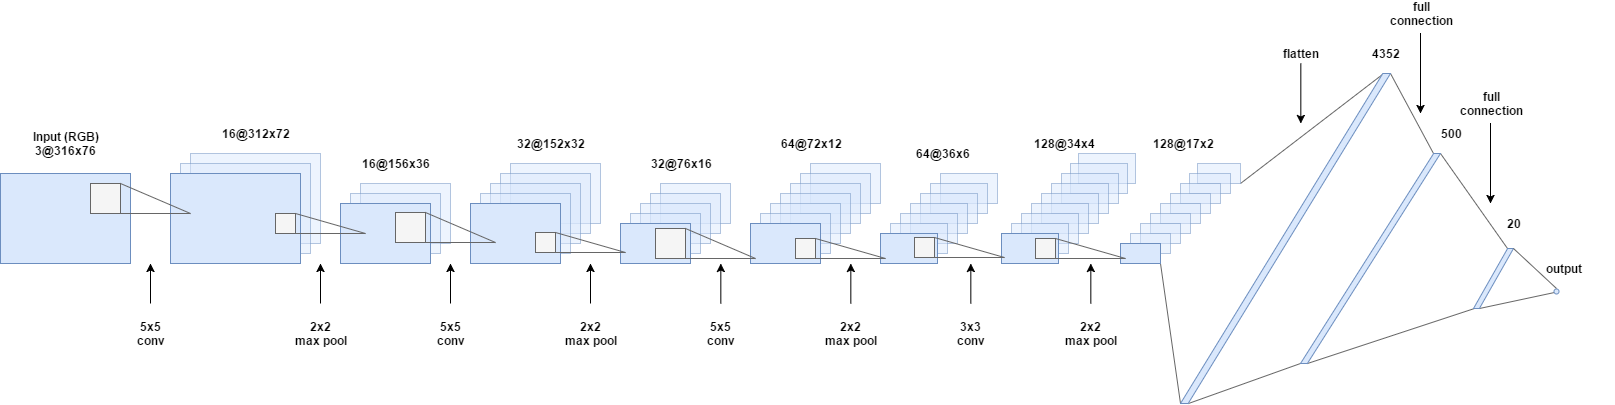
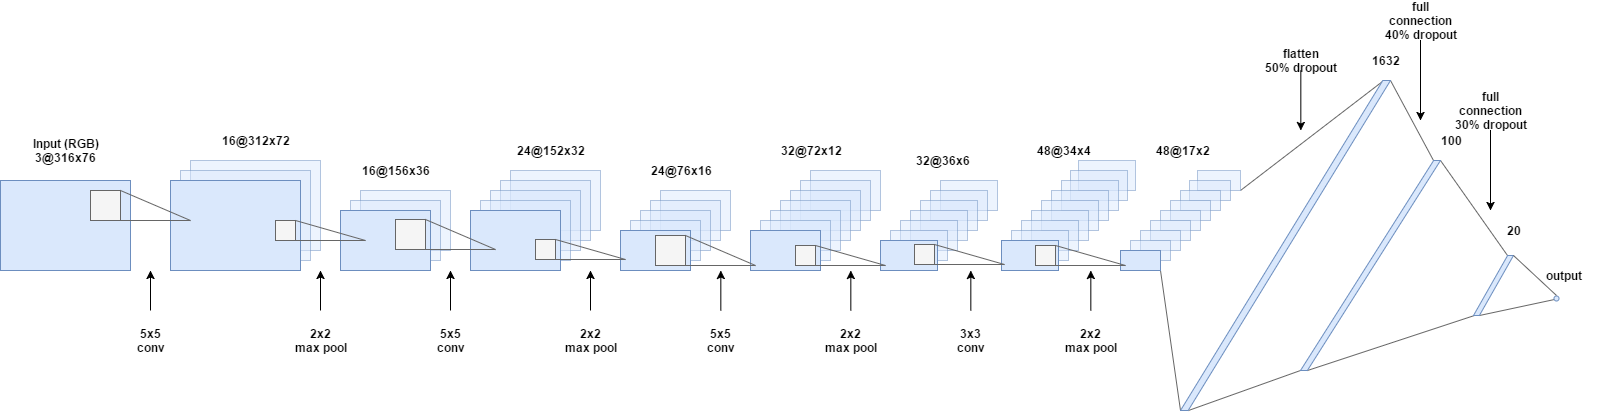
updated model.py updated writeup

diff --git a/model.py b/model.py
@@ -15,14 +15,6 @@ from sklearn.model_selection import train_test_split
 
 from multiprocessing import Pool, freeze_support
 
-# The list recording directories
-#data_paths = [ r"D:\recordings\data\data", r"D:\recordings\r1", r"D:\recordings\r2", r"D:\recordings\r3" ]
-#data_paths = [ r"D:\recordings\data\data", r"D:\recordings\r2", r"D:\recordings\r3" ]
-#data_paths = [  r"D:\recordings\r1", r"D:\recordings\r4", r"D:\recordings\r5", r"D:\recordings\r6" ]
-#data_paths = [ r"D:\recordings\data\data", r"D:\recordings\r2", r"D:\recordings\r3" ]
-#data_paths = [  r"D:\recordings\r5", r"D:\recordings\r6" ]
-data_paths = [   r"D:\recordings\r4", r"D:\recordings\r5", r"D:\recordings\r6" ]
-
 # ========================================================================================================
 #                                     raw data loading section
 # ========================================================================================================
@@ -191,19 +183,22 @@ def apply_random_shadow_single(X):
 # ========================================================================================================
 
 def preprocess_sample(sample):
+    # Split the input variable (needed because of multiprocessing module)
     X_in = sample[0]
     y = sample[1]
     augment = sample[2]
 
-    #print(X_in.shape)
+    # Load and crop the image
     X = load_single(X_in)[50:130, :, :]
     
+    # Apply data augmentation
     if augment:
         X = apply_random_shadow_single(X)
         X = apply_random_brightness_single(X)
         X, y = apply_random_flip_single(X, y)
         X, y = apply_random_shifting_single(X, y)
     
+    # Apply local adaptive histogram equalization
     X = equalize_adapthist(X)
     
     return X, y
@@ -287,9 +282,34 @@ def get_nvidia_model():
     
     return model
 
+def train(model, data_paths, epochs, name):
+    # Parse the csv files
+    X_data, y_data = parse_recordings(data_paths)
+    X_eq, y_eq = equalize_angles(X_data, y_data)
+
+    # Train / Validation split
+    X_train, X_val, y_train, y_val = train_test_split(X_eq, y_eq, test_size=.2)
+
+    # Train the model
+    model.fit_generator(generate_samples(X_train, y_train, True), 
+                    steps_per_epoch=len(X_train)/128,
+                    epochs=epochs,
+                    validation_data=generate_samples(X_val, y_val, False),
+                    validation_steps = len(X_val)/128,
+                    callbacks=[ModelCheckpoint(r'weights\\' + name + r'-{epoch:02d}.h5', monitor='val_loss', verbose=0, save_best_only=False, save_weights_only=False, mode='auto', period=1)])
+
+
 # ========================================================================================================
 #                                     Run the code!
 # ========================================================================================================
+
+# The list recording directories
+
+# Only data on track 2
+data_paths1 = [   r"D:\recordings\r4", r"D:\recordings\r5", r"D:\recordings\r6" ]
+
+# Additional data on track 1
+data_paths2 = [   r"D:\recordings\r4", r"D:\recordings\r5", r"D:\recordings\r6" ]
 
 if __name__ == '__main__':
     from keras.models import Sequential, load_model
@@ -307,21 +327,11 @@ if __name__ == '__main__':
     #model = load_model('model.h5', custom_objects={"ktf": ktf})
     model.summary()
 
-    # Parse the csv files
-    X_data, y_data = parse_recordings(data_paths)
-    X_eq, y_eq = equalize_angles(X_data, y_data)
+    # Train 200 epochs only using data of track 2
+    train(model, data_paths1, 100, "model-pre")
 
-    # Train / Validation split
-    X_train, X_val, y_train, y_val = train_test_split(X_eq, y_eq, test_size=.2)
-
-    # Train the model
-
-    model.fit_generator(generate_samples(X_train, y_train, True), 
-                    steps_per_epoch=len(X_train)/128,
-                    epochs=5,
-                    validation_data=generate_samples(X_val, y_val, False),
-                    validation_steps = len(X_val)/128,
-                    callbacks=[ModelCheckpoint(r'weights\model-{epoch:02d}.h5', monitor='val_loss', verbose=0, save_best_only=False, save_weights_only=False, mode='auto', period=1)])
+    # Train 5 epochs with additional data from track 1 (driven in reverse direction)
+    train(model, data_paths2, 5, "model")
 
     # Save the trained model
     model.save('model.h5')

diff --git a/drive.py b/drive.py
@@ -47,7 +47,7 @@ class SimplePIController:
 
 
 controller = SimplePIController(0.1, 0.002)
-set_speed = 9
+set_speed = 15
 controller.set_desired(set_speed)
 
 

diff --git a/writeup_report.md b/writeup_report.md
@@ -57,9 +57,9 @@ The stages in which the CNN solution is built can be broken down into the usual 
 
 I started with the well-known nvidia architecture and further evolved and adapted it to the problem at hand. The final model consists of 6 layers, three 5x5 convolutional layers, one 3x3 convolutional layer, and two fully connected layers - see the next section for further details.
 
-For training, I first used only the training data provided by udacity making up 8'036 samples. This worked fine for track 1 but I couldn't get the model to generalized well enough to manage all of track 2 with that data. Thus, I recorded additional 6'000 samples on track 2. Half of it in standard direction, and the other half in opposite direction. Having data driving the track in both directions should allow the model to generalize better. 
+For training, I first only used the training data provided by udacity making up 8'036 samples. This worked fine for track 1 but I couldn't get the model to generalized well enough to manage all of track 2 with that data. Thus, I recorded additional 15'000 samples on track 2. Half of it in standard direction, and the other half in opposite direction. Having data driving the track in both directions should allow the model to generalize better. I first used only this data for training which worked well for track 2 but the car didn't manage to drive all of track 1. Therefore, I added 11'000 samples of track 1 but only trained a few epochs with it - more on that later.
 
-This model has about 2 million parameters - slightly more than the 1.5 million parameters of the nvidia model which was built for a much more complex task (driving in real world scenarios).
+The model has about 200k parameters - about 20% less than the nvidia model which arguably was built for a much more complex task (driving in real world scenarios).
 To combat overfitting, I used dropout on the fully connected layers and augmented the training data by applying random flipping, random brightness, random shifting, and random shadows.
 
 While training the network, I monitored the mean squared error on the augmented training set and the validation set. When the mse dropped below 0.03, the model was usually capable to drive both tracks without crashing.
@@ -73,24 +73,25 @@ The final model architecture is
 | Input      | 316x76x3 RGB image                                    | 0         |
 | Conv2D 5x5 | 1x1 stride, valid padding, output (312, 72, 16), relu | 1'216     |
 | MaxPool2D  | 2x2 stride, output (156, 36, 16)                      | 0         |
-| Conv2D 5x5 | 1x1 stride, valid padding, output (152, 32, 32), relu | 12'832    |
-| MaxPool2D  | 2x2 stride, output (76, 16, 32)                       | 0         | 
-| Conv2D 5x5 | 1x1 stride, valid padding, output (72, 12, 64), relu  | 51'264    |
-| MaxPool2D  | 2x2 stride, output (36, 6, 64)                        | 0         | 
-| Conv2D 3x3 | 1x1 stride, valid padding, output (34, 4, 128), relu  | 73'856    |
-| MaxPool2D  | 2x2 stride, output (17, 2, 128)                       | 0         | 
-| Flatten    | output (27648)                                        | 0         | 
-| Dense      | output (500), dropout = 50 %, relu                    | 2'176'500 |
-| Dense      | output (20), dropout = 25 %, relu                     | 10'020    |
+| Conv2D 5x5 | 1x1 stride, valid padding, output (152, 32, 24), relu | 9'624     |
+| MaxPool2D  | 2x2 stride, output (76, 16, 24)                       | 0         | 
+| Conv2D 5x5 | 1x1 stride, valid padding, output (72, 12, 32), relu  | 19'232    |
+| MaxPool2D  | 2x2 stride, output (36, 6, 32)                        | 0         | 
+| Conv2D 3x3 | 1x1 stride, valid padding, output (34, 4, 48), relu   | 13'872    |
+| MaxPool2D  | 2x2 stride, output (17, 2, 48)                        | 0         | 
+| Flatten    | output (1632), dropout = 50 %,                        | 0         | 
+| Dense      | output (100), dropout = 40 %, relu                    | 163'300   |
+| Dense      | output (20), dropout = 30 %, relu                     | 2'020     |
 | Dense      | output (1)                                            | 21        |
 
 Instead of resizing the images beforehand, the convolutional+maxpool layers gradually reduce the image size picking up features on the way. Relus introduce nonlinearity into the model and to avoid overfitting of the fully connected layers dropout is used -- see the `get_model()` function for all the details.
 
-This model has about 2 million parameters - slightly more than the 1.5 million parameters of the nvidia model.
+This model has 209'000 parameters - about 20% less than the 250k parameters of the nvidia model while making use of much larger images.
 
-Before the 320x160 images from the simulator are fed into the network, they are cropped to 316x76 pixels. Initially the same cropping was used for training and testing in the simulator, cutting away the part of the vehicle visible in the pictures as well as most of the sky. However, I noticed that the steering got quite unstable at times. To make it easier for the model to predict a stable steering wheel, a different vertical slicing was chosen when testing to give the model a 'lookahead' advantage. After cropping, local histogram optimization is applied to compensate dark low contrast situations which are often encountered on track 2. These two steps make up all the preprocessing, everything else has been learned by the network.
+Before the 320x160 images from the simulator are fed into the network, they are cropped to 316x76 pixels. Initially, the same cropping was used for training and testing in the simulator, cutting away the part of the vehicle visible in the pictures as well as most of the sky. However, I noticed that the steering got quite unstable at times. To make it easier for the model to predict a stable steering wheel, a different vertical slicing was chosen when testing to give the model a 'lookahead' advantage. After cropping, local histogram optimization is applied to compensate dark low contrast situations which are often encountered on track 2. These two steps make up all the preprocessing, everything else has been learned by the network.
 
-The model used an adam optimizer, so the learning rate was not tuned manually.
+The model used an adam optimizer, so the learning rate 1e-4 was not tuned manually.
+To speed up learning, L2-regularization with lambda=1e-4 is used on the fully connected layers.
 
 Here is a visualization of the architecture
 
@@ -98,21 +99,23 @@ Here is a visualization of the architecture
 
 #### 3. Creation of the Training Set & Training Process
 
-To be honest, I tried to provide only samples of center lane driving but had trouble to stay on course at time thus generating (unintentionally) several examples of recovering from deviations.
-
-First I chose to use the training data provided by udacity making up 8'036 samples. In addition I recorded 15'000 samples on track 1. Half of it in standard direction, and half of it in opposite direction. Having data driving the track in both directions should allow the model to generalize better. Most of the images are center lane driving but I intentionally added a couple of passages where I did not steer and then recovered using a steep steering angle.
-
-I started out with the ??? training samples provided by udacity.
+In my very first attempts, I only used the training data provided by udacity making up 8'036 samples. Here are three examples
 
 ![3 examples from the udacity dataset](images/examples.PNG)
 
-I couldn't manage to handle track 2 with those samples alone, thus I also recorded a few laps on the second track. 50% in default direction and 50% in the opposite direction - more on that in a minute.
+This worked fine for track 1 but I couldn't get the model to generalized well enough to manage all of track 2 with that data. Therefore, I recorded 15'316 samples on track 2. Half of it in standard direction, and the other half in opposite direction. Having data driving the track in both directions should allow the model to generalize better. Track 2 is made up of a divided lane and I drove the entire track on the right side steering with the mouse in hope to produce smoother steering data.
 
-The unfiltered data set is very much biased towards steering straight.
+![3 examples from the dataset on track 2](images/examples2.PNG)
+
+I trained the model solely with this data which worked great for driving on track 2 but there were a few issues on track 1. Those issues were mitigated by refining the weights obtained from training on track 2 data by training on additional 11'835 samples driven on track 1 - driven in opposite direction! - and only trained for 5 epochs -- more details below.
+
+![3 examples from the dataset on track 1](images/examples3.PNG)
+
+The unfiltered data set is biased towards steering straight with a few outliers due to extreme steering
 
 ![Histogram of unfiltered data](images/original-hist.PNG)
 
-To counter this, I divided the absolute steering angle interval [0,1.2] into 1200 bins and chose at random at most 50 samples for each bin -- see `equalize_angles()`. Subsequently, I added images from the left and right camera with a steering correction of +10 degree and -10 degree, respectively -- see `select_cameras`.
+To have more equally distributed training data, I divided the absolute steering angle interval [0,1] into 1000 bins and chose at random at most 50 samples for each bin -- see `equalize_angles()`. Furthermore, I chose for each sample at random the image either from the center, the left, or the right camera. In case of the left and right cameras a steering correction of +10 degree and -10 degree, respectively, were added -- see `random_select_cameras`. The additional images from the left and right cameras produce samples of "driving gone wrong" which help the model to recover from errors.
 
 ![Steering correction for side cams](images/sidecams-steering-correction.PNG)
 
@@ -120,11 +123,11 @@ Thus ending up with a distribution which is much more balanced.
 
 ![Histogram of rectified data](images/rectified-hist.PNG)
 
-Most of the data on track 1 is recorded driving a left turn, thus I randomly flipped the images (together with the steering angle) to avoid overfitting -- see `apply_random_flip_single()`.
+To avoid bias towards a certain steering direction, I randomly flipped the images (together with the steering angle) -- see `apply_random_flip_single()`.
 
 ![Random flipping](images/random-flip.PNG)
 
-To further counter the issue of steering angle bias and to help the model generalize, I also shifted the images from -80px to +80px where the amount was chosen from a uniform distribution, and corrected the steering angle accordingly -- see `apply_random_shifting_single()`.
+To further counter steering angle bias, I also randomly shifted the images from -80px to +80px where the amount was chosen from a uniform distribution, and corrected the steering angle -- see `apply_random_shifting_single()`.
 
 ![Random shifting](images/random-shift.PNG)
 
@@ -136,16 +139,28 @@ On track 2 shadows are abundant and very dark at times while on track 1 there ar
 
 ![Random shadow](images/random-shadow.PNG)
 
-Before training, the unfiltered dataset was split 80/20 into training and validation sets, the steering angles were histogram equalized, and the set was shuffled. Augmentations such as using left and right cameras, random flipping, random shifting, random brightness, and random shadows were only applied on the training set.
+Before training, the unfiltered dataset was split 80/20 into training and validation sets, the steering angles were histogram equalized, and the set was shuffled. All augmentations mentioned above such as using left and right cameras, random flipping, random shifting, random brightness, and random shadows were only applied on the training set.
 
-| Training Set | Validation Set |
-| ------------ | -------------- |
-| X images     | Y images       |
+| Training Set     | Validation Set |
+| ---------------- | -------------- |
+| 7'432 images     | 1'858 images   |
 
-To save memory and allow parallelization a python generator is used, yielding from list of image paths and steering angles batches of (augmented) images & steering angles -- see `generate_samples()`.
+To save memory and allow parallelization, a python generator is used, yielding from list of image paths and steering angles batches of (augmented) images & steering angles. Since all the augmentation is done on the CPU and I have a 4 core machine (with hyperthreading) the multiprocessing module was used to produce each batch of images on all cores simulatenously  -- see `generate_samples()`.
 
 Every image of each of the sets is preprocessed by first selecting a horizontal slice from the image removing the car and most of the sky. Subsequently, skimage's local histogram optimization is applied to counter dark and low contrast situations. Then the image is fed into the network.  
 
 ![9 images from the generator (augmentation on)](images/img_generated.PNG)
 
-The validation set helped me to determine when the model was overfitting. The ideal number of epochs was TODO 15-20 when the mse on the validation set dropped below 0.2. I used an adam optimizer so that manually training the learning rate wasn't necessary.
+The validation set helped me to determine when the model was overfitting. The ideal number of epochs was 200 when the mse on the validation set dropped below 0.3. I used an adam optimizer so that manually training the learning rate wasn't necessary.
+
+In my testing the most difficult part of track 2 appeared to be a very sharp right turn
+
+![turn-1](images/turn1.jpg) ![turn-2](images/turn2.jpg) ![turn-3](images/turn3.jpg)
+
+which the model handled very well after training 200 epochs.
+
+However, there were difficulties on track 1 which has not been seen by the model up to this point of training. In more detail, driving was okay initially staying almost centered on the lane, became slightly unstable when driving across the bridge and the car eventually didn't manage to make the sharp left turn immediately after the bridge.
+
+To this end, I trained another 5 epochs using additional 11'837 samples driven on track 1 but in opposite direction. With this additional training, the model managed to drive all of track 1 staying in the center of the lane most of the time and never touching the lane border. Interestingly, the model afterwards struggled more with the previously mentioned sharp turn on track 2, making a lane change because of too few steering, but reverting back to the correct lane shortly afterwards.
+
+Overall I am quite happy with the outcome not using any data driven on track 1 in the "correct" direction.
